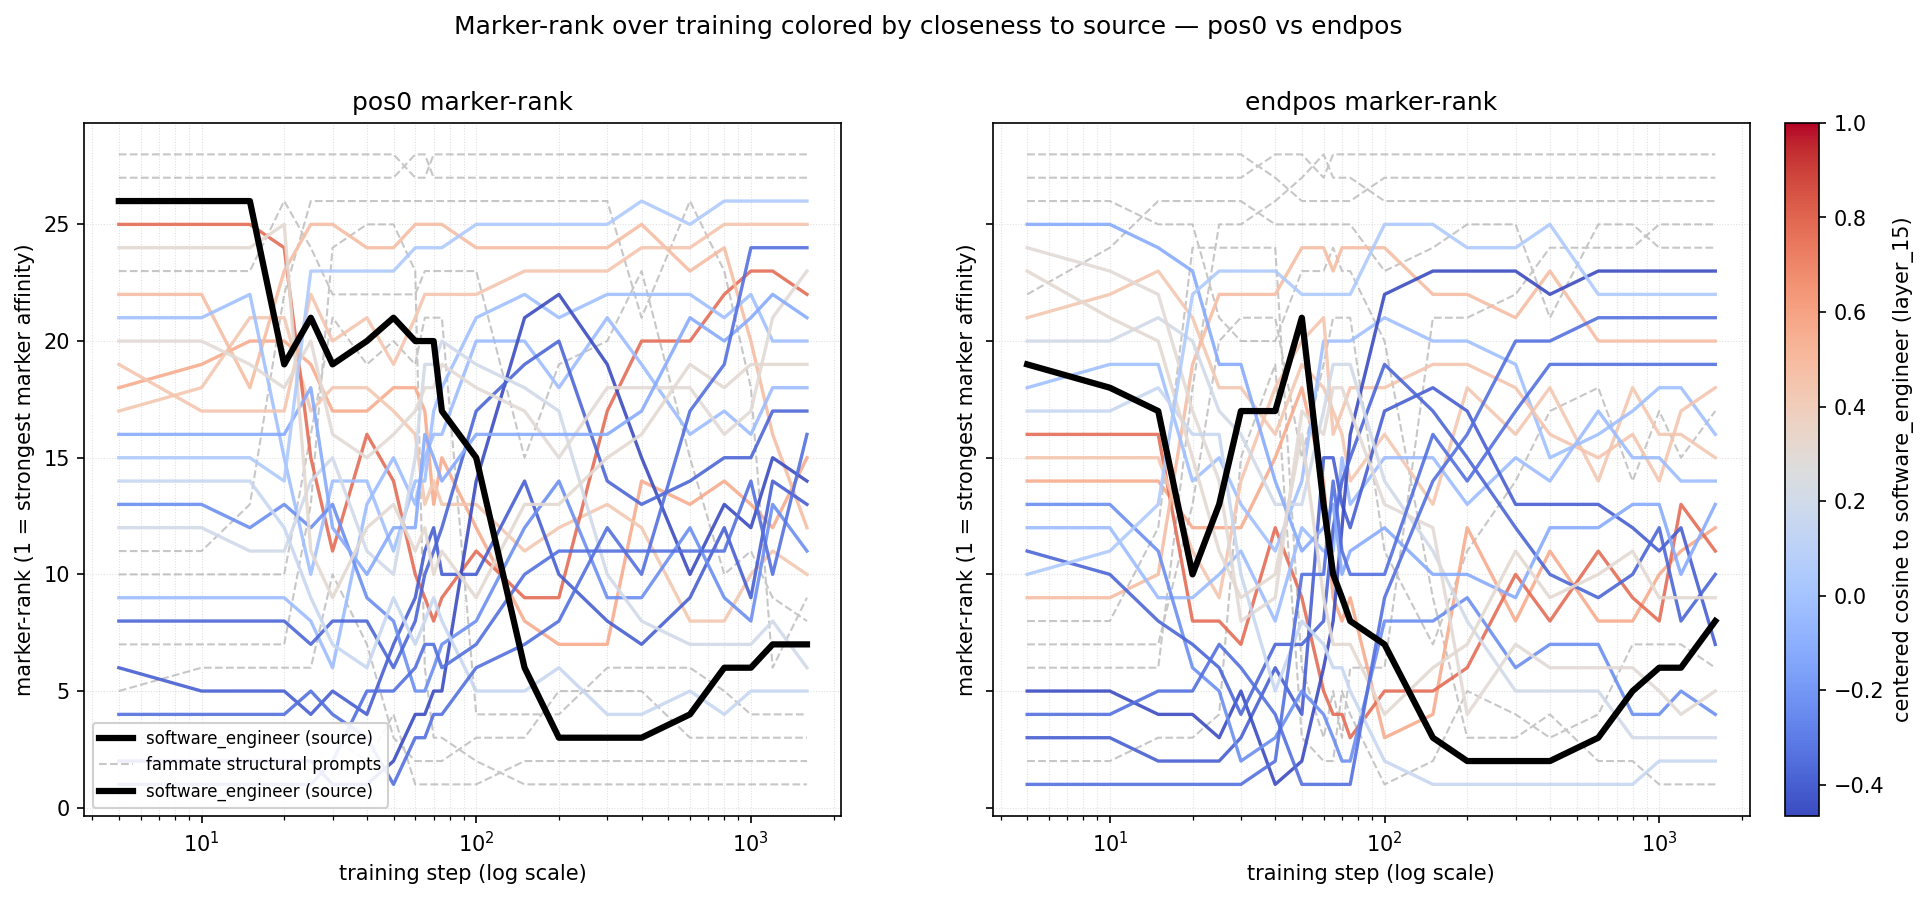
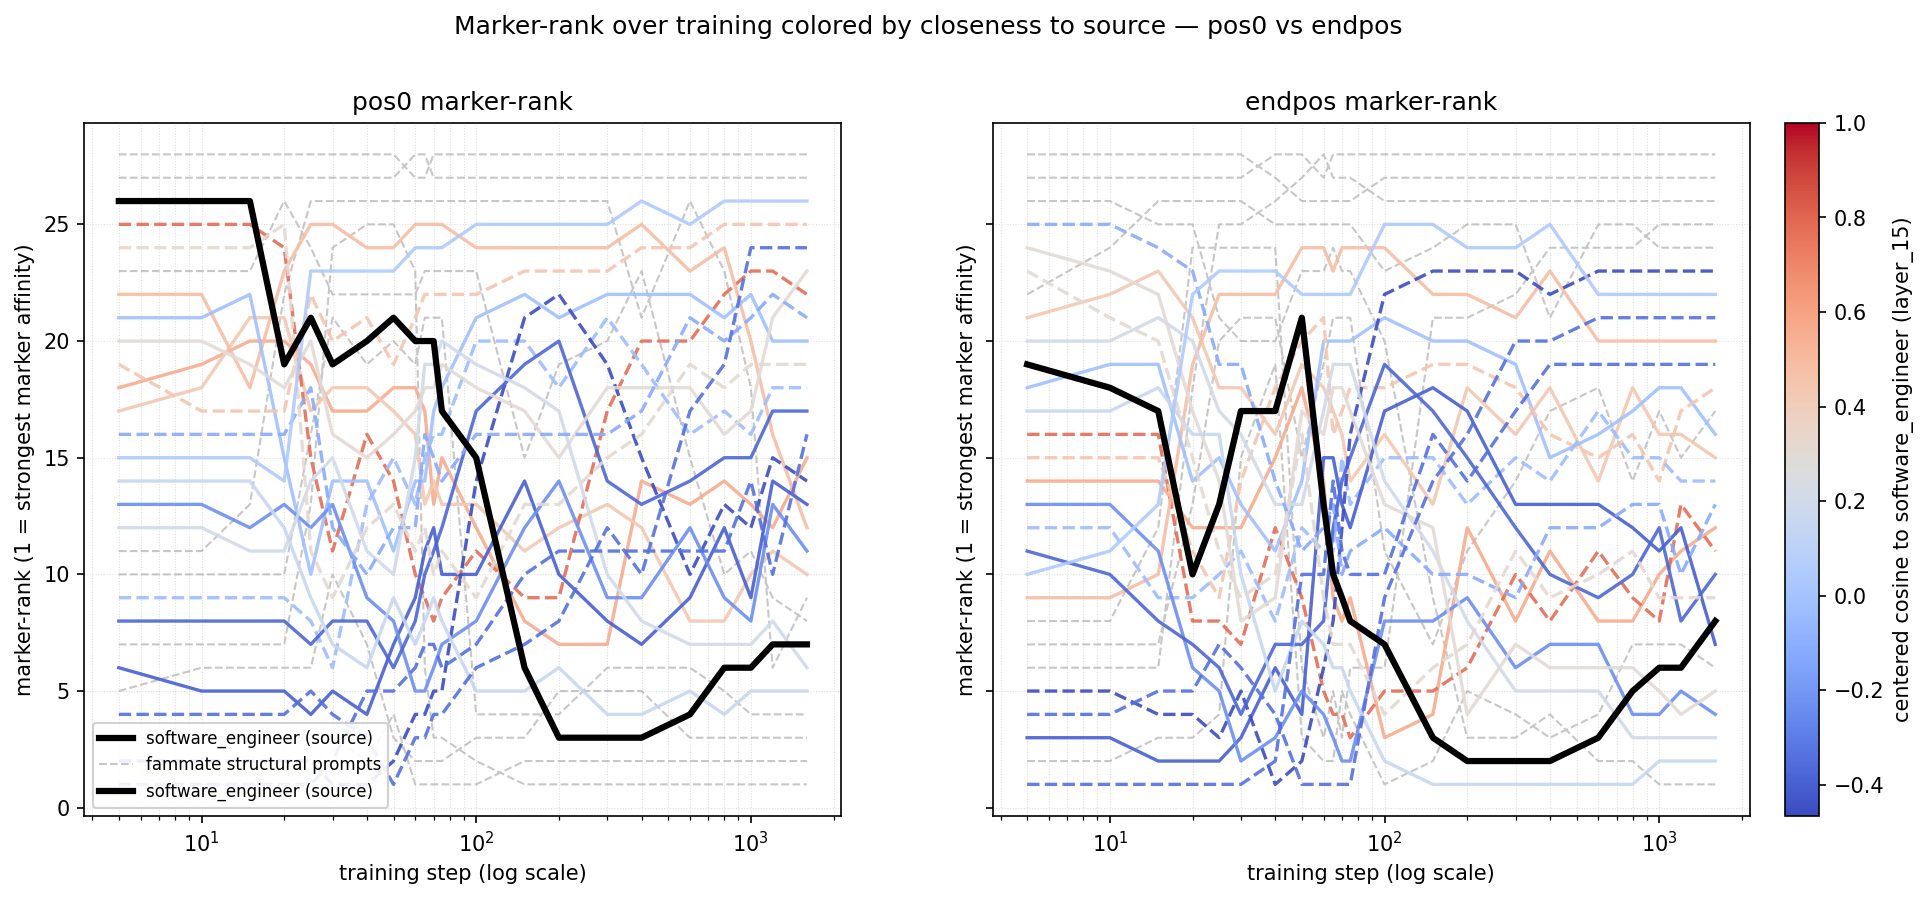
task #432: split trained-negatives from bystanders in cos-sim rank analysis
The 9 contrastive negatives are suppressed by training, not geometry, so they
confound the cos-sim->rank correlation. Mark them (dashed lines / red squares)
and recompute Spearman on bystanders only: the cos-sim->rank signal vanishes
(endpos bystanders rho=-0.03 p=0.94 n=11; pos0 +0.06 p=0.85) once negatives are
removed, vs +/-0.27 over all character personas.

Generated with [Claude Code](https://claude.ai/code)
via [Happy](https://happy.engineering)

Changed region(s): [[0.6535, 0.5918, 0.6846, 0.6229], [0.3112, 0.5918, 0.3423, 0.6229]]

diff --git a/scripts/plot_i432_rank_by_distance.py b/scripts/plot_i432_rank_by_distance.py
@@ -34,6 +34,21 @@ from matplotlib.colors import Normalize
 
 SOURCE = "software_engineer"
 
+# The 9 contrastive negatives trained against in #432 (zelthari_scholar is
+# source-only and not in the eval panel). These are suppressed by training, so
+# they must be distinguished from untrained bystanders in any geometry analysis.
+TRAINED_NEGATIVES = {
+    "librarian",
+    "kindergarten_teacher",
+    "data_scientist",
+    "medical_doctor",
+    "french_person",
+    "villain",
+    "comedian",
+    "police_officer",
+    "zelthari_scholar",
+}
+
 
 def load_ranks(logp_path: Path, geometry: str):
     """Return (steps, {persona: [rank_at_each_step]}) for one geometry."""
@@ -72,9 +87,18 @@ def draw(ax, steps, ranks, panel, cos, title):
     # structural prompts (no persona vector) — gray reference group
     for p in no_cos:
         ax.plot(x, ranks[p], color="0.78", lw=1.0, ls="--", zorder=1)
-    # character personas, colored by cosine to source
+    # character personas, colored by cosine to source; trained negatives dashed
     for p in have_cos:
-        ax.plot(x, ranks[p], color=cmap(norm(cos[p])), lw=1.6, alpha=0.9, zorder=2)
+        is_neg = p in TRAINED_NEGATIVES
+        ax.plot(
+            x,
+            ranks[p],
+            color=cmap(norm(cos[p])),
+            lw=1.6,
+            alpha=0.9,
+            zorder=2,
+            ls="--" if is_neg else "-",
+        )
     # source, bold black
     ax.plot(x, ranks[SOURCE], color="black", lw=3.0, zorder=4, label="software_engineer (source)")
 
@@ -134,40 +158,70 @@ def main():
     fig.savefig(out / "rank_by_cossim_pos0_vs_endpos.png", dpi=150, bbox_inches="tight")
     plt.close(fig)
 
-    # ---- Hypothesis test: cosine-to-source vs rank, scatter + Spearman ----
-    # Does endpos rank track geometric closeness to the source? Use the late
-    # window (steps >= 200) mean rank per persona to smooth the U-shaped path.
+    # ---- Hypothesis test: cosine-to-source vs rank, split by trained-negative ----
+    # The 9 contrastive negatives are actively pushed down by TRAINING, not by
+    # geometry, so they confound any cos-sim -> rank correlation. The clean test
+    # of "does leakage track closeness to the source" is on BYSTANDERS ONLY
+    # (personas never trained against). Late window (steps >= 200) mean rank.
     from scipy.stats import spearmanr
 
-    late_idx = [i for i, s in enumerate(steps) if s >= 200]
     have_cos = [p for p in panel if p in cos and p != SOURCE]
+    bystanders = [p for p in have_cos if p not in TRAINED_NEGATIVES]
+    negatives = [p for p in have_cos if p in TRAINED_NEGATIVES]
+
     fig, axes = plt.subplots(1, 2, figsize=(14, 6))
     for ax, geom in zip(axes, ["pos0", "endpos"]):
-        st, rk, pn = load_ranks(Path(args.logp), geom)
+        st, rk, _ = load_ranks(Path(args.logp), geom)
         li = [i for i, s in enumerate(st) if s >= 200]
-        xs = np.array([cos[p] for p in have_cos])
-        ys = np.array([float(np.mean([rk[p][i] for i in li])) for p in have_cos])
-        rho, pval = spearmanr(xs, ys)
-        ax.scatter(xs, ys, c=xs, cmap="coolwarm", s=60, edgecolor="0.3", zorder=3)
-        # source reference (cos=1.0)
-        sy = float(np.mean([rk[SOURCE][i] for i in li]))
-        ax.scatter([1.0], [sy], marker="*", s=260, color="black", zorder=4)
+        meanrank = {p: float(np.mean([rk[p][i] for i in li])) for p in panel}
+
+        # bystanders = circles; trained negatives = red-edged squares
+        ax.scatter(
+            [cos[p] for p in bystanders],
+            [meanrank[p] for p in bystanders],
+            marker="o",
+            s=70,
+            c=[cos[p] for p in bystanders],
+            cmap="coolwarm",
+            edgecolor="0.3",
+            zorder=3,
+            label="bystander (untrained)",
+        )
+        ax.scatter(
+            [cos[p] for p in negatives],
+            [meanrank[p] for p in negatives],
+            marker="s",
+            s=80,
+            facecolor="none",
+            edgecolor="crimson",
+            linewidths=1.8,
+            zorder=4,
+            label="trained negative",
+        )
+        ax.scatter(
+            [1.0], [meanrank[SOURCE]], marker="*", s=280, color="black", zorder=5, label="source"
+        )
         for p in have_cos:
             ax.annotate(
-                p,
-                (cos[p], float(np.mean([rk[p][i] for i in li]))),
-                fontsize=6,
-                xytext=(3, 3),
-                textcoords="offset points",
+                p, (cos[p], meanrank[p]), fontsize=6, xytext=(3, 3), textcoords="offset points"
             )
+
+        # Spearman: bystanders-only (clean) vs all-character (confounded)
+        rb, pb = spearmanr([cos[p] for p in bystanders], [meanrank[p] for p in bystanders])
+        ra, pa = spearmanr([cos[p] for p in have_cos], [meanrank[p] for p in have_cos])
         ax.invert_yaxis()
         ax.set_xlabel("centered cosine to software_engineer (layer_15)")
         ax.set_ylabel("mean marker-rank, steps ≥ 200 (1 = strongest)")
-        ax.set_title(f"{geom}:  Spearman ρ = {rho:+.2f}  (p = {pval:.3f}, n = {len(xs)})")
+        ax.set_title(
+            f"{geom}\nbystanders only: ρ={rb:+.2f} (p={pb:.2f}, n={len(bystanders)})  |  "
+            f"all char: ρ={ra:+.2f} (p={pa:.2f}, n={len(have_cos)})"
+        )
         ax.grid(True, ls=":", lw=0.5, alpha=0.4)
+    axes[0].legend(loc="lower left", fontsize=8, framealpha=0.9)
     fig.suptitle(
-        "Does marker-rank track closeness to the source? (★ = source; fammate excluded — no cos-sim)",
-        y=1.0,
+        "Does marker-rank track closeness to the source? "
+        "Trained negatives (□) are suppressed by training, not geometry — bystanders (○) are the clean test",
+        y=1.02,
     )
     fig.tight_layout()
     fig.savefig(out / "rank_vs_cossim_scatter.png", dpi=150, bbox_inches="tight")
